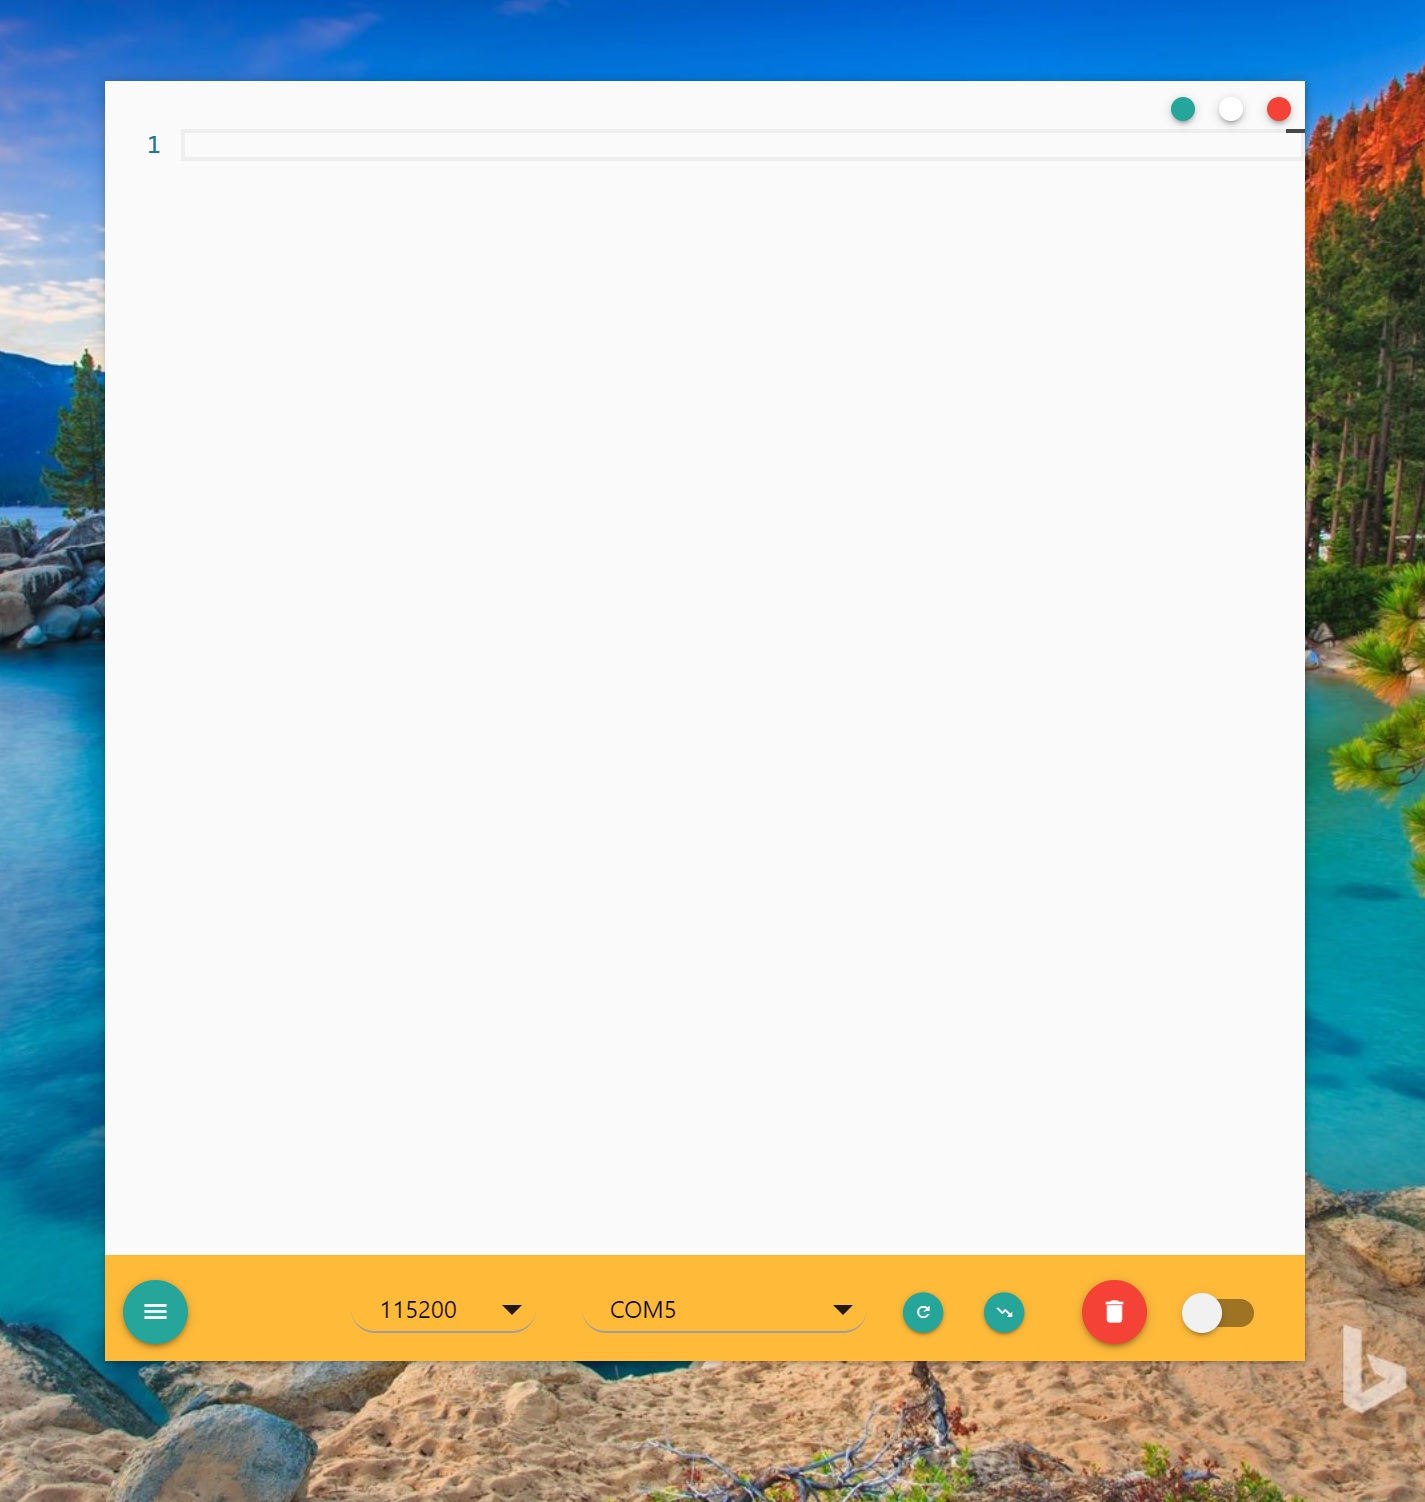
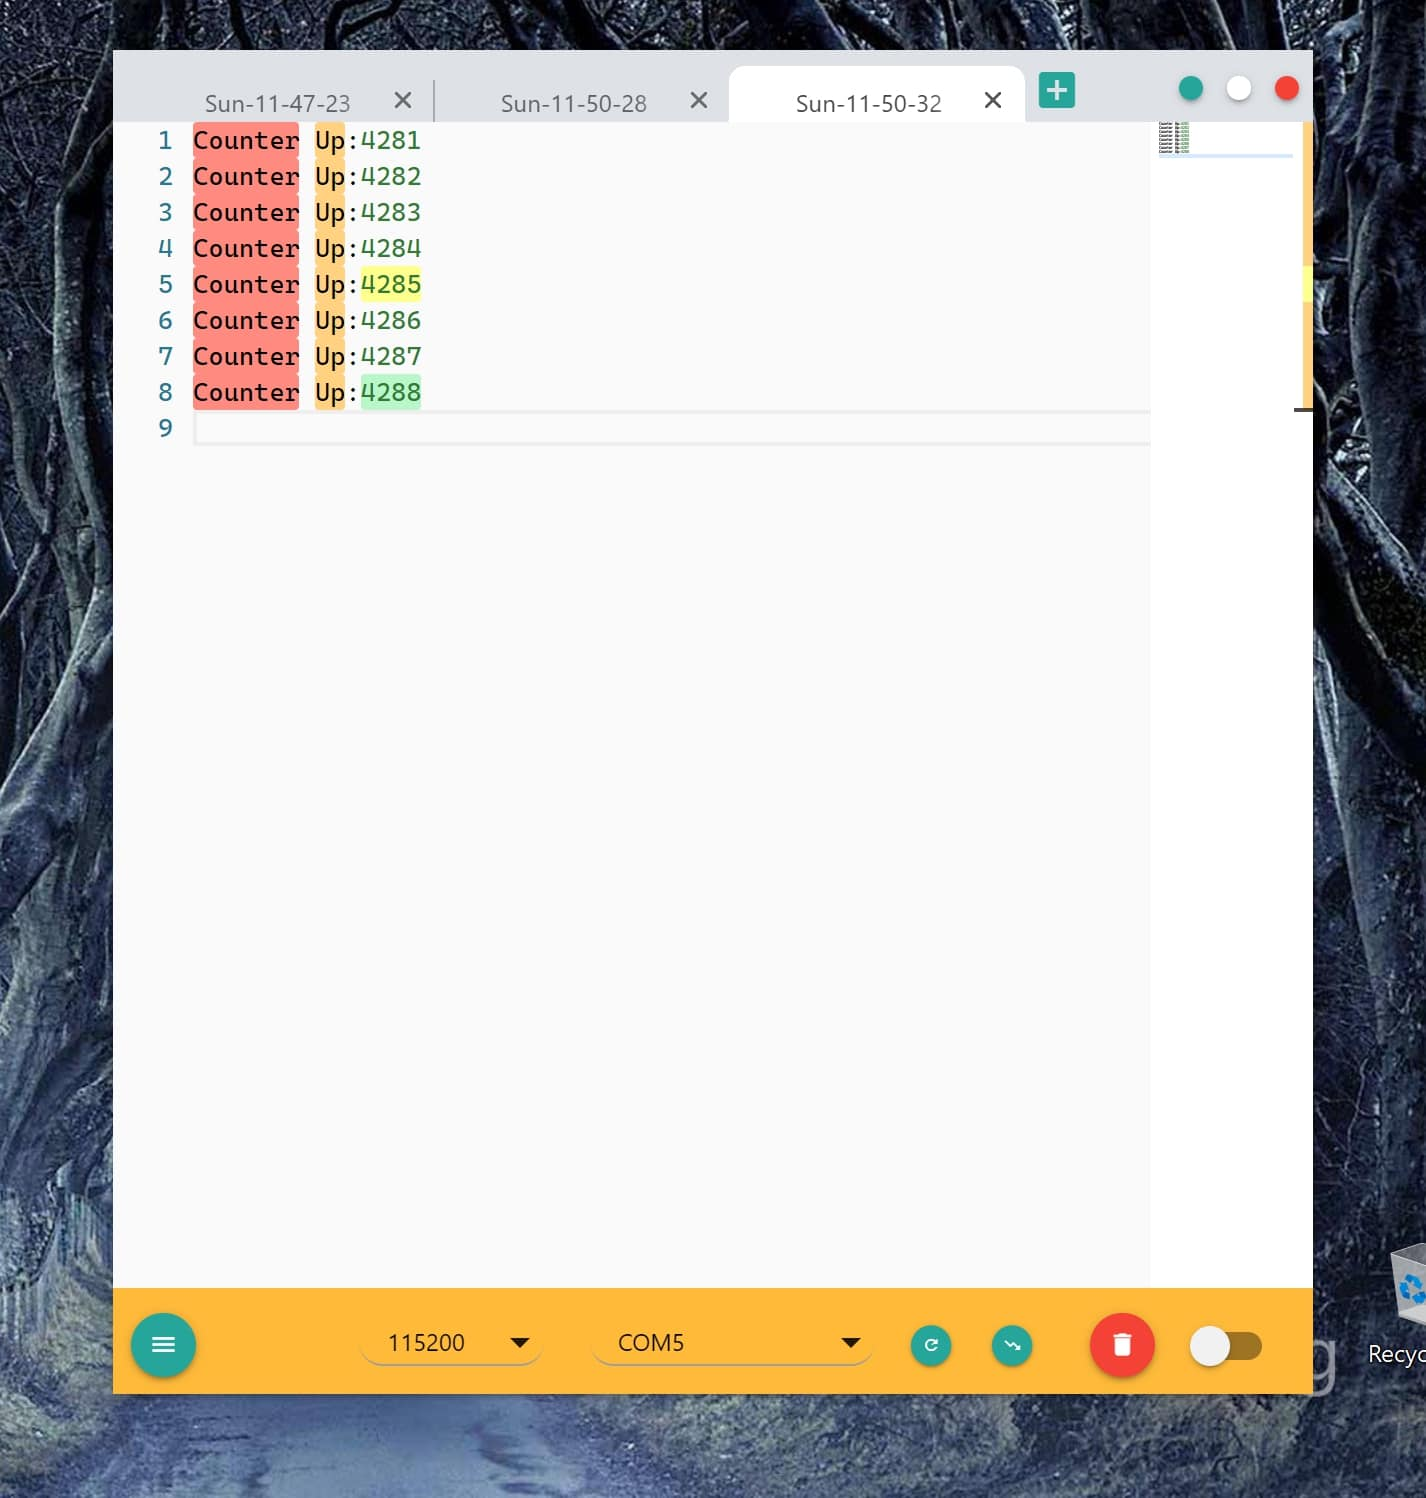
!1 Add tabs * - Add better Chinese font support * - Fix file parse fail on Windows * - Implement new tab shortcut * - Fix multi window issue * - Optimize UI * - Add chrometabs reference * - Optimize zero-tab behavior * - Format tab title * - Remove tab.js file * - * Implement basic tabs function * -

diff --git a/src/editor.js b/src/editor.js
@@ -5,6 +5,7 @@ const path = require("path");
 const amdLoader = require("../node_modules/monaco-editor/min/vs/loader.js");
 const { dialog } = require("electron").remote;
 const hexy = require("hexy");
+const ChromeTabs = require("chrome-tabs");
 
 const amdRequire = amdLoader.require;
 
@@ -35,6 +36,7 @@ const decoTable = [
 ];
 
 var editor;
+var chromeTabs = new ChromeTabs();
 var breakpointHit = false;
 var breakpointAfterLines = 0;
 var breakpointBuff = [];
@@ -42,6 +44,10 @@ var half_line = false;
 var decoIndex = 0;
 var ansiWait = false;
 var captureFileStream;
+
+// tabEl -> view
+// view -> {model, state}
+var tabsMap = new Map();
 
 function uriFromPath(_path) {
   var pathName = path.resolve(_path).replace(/\\/g, "/");
@@ -164,7 +170,6 @@ function highlightToggle() {
   } else {
     decoRemove(model, targetClassName);
   }
-
   return null;
 }
 
@@ -194,8 +199,16 @@ function openFile() {
     .then((result) => {
       if (result.canceled === false) {
         const file = result.filePaths[0];
+        // show text
         const text = fs.readFileSync(file).toString();
         editor.getModel().setValue(text);
+
+        // setup tab title
+        const title = file.split(/[\\|/]/).pop();
+        const el = chromeTabs.activeTabEl;
+        let titleEl = el.querySelector(".chrome-tab-title");
+        el.align = "center";
+        titleEl.innerHTML = title;
       }
     });
 }
@@ -224,11 +237,7 @@ function openBinFile() {
 }
 
 function saveToFile() {
-  let fileName = new Date(+new Date() + 8 * 3600 * 1000);
-  fileName = "Log-" + fileName.toISOString();
-  fileName = fileName.replace(/[.|:]/g, "-");
-  if (config.advance.sign.switch === true && config.advance.sign.name !== "")
-    fileName += "-" + config.advance.sign.name;
+  let fileName = chromeTabs.activeTabEl.innerText;
 
   dialog
     .showSaveDialog({
@@ -243,6 +252,10 @@ function saveToFile() {
         fs.writeFileSync(file, text);
       }
     });
+}
+
+function newTab() {
+  chromeTabs.addTab();
 }
 
 function getTimestamp() {
@@ -497,6 +510,7 @@ amdRequire(["vs/editor/editor.main"], function () {
   });
 
   editor = monaco.editor.create(document.getElementById("editor-area"), {
+    model: null,
     theme: "comNGTheme",
     language: "comNGLang",
     automaticLayout: true,
@@ -725,6 +739,66 @@ amdRequire(["vs/editor/editor.main"], function () {
       }
     }
   });
+
+  // Chrometabs section, refer to:
+  // https://stackoverflow.com/questions/38266951/how-to-create-chrome-like-tab-on-electron
+  let tabsEl = document.querySelector(".chrome-tabs");
+
+  tabsEl.addEventListener("tabAdd", ({ detail }) => {
+    // console.log("tab add");
+
+    // create a new model
+    let model = monaco.editor.createModel();
+    editor.setModel(model);
+    monaco.editor.setTheme("comNGTheme");
+    monaco.editor.setModelLanguage(model, "comNGLang");
+
+    let el = detail.tabEl;
+    // setup the title with time
+    let date = new Date();
+    date = date.toString().split(" ");
+    let title = date[0] + "-" + date[4].replace(/[.|:]/g, "-");
+    let titleEl = el.querySelector(".chrome-tab-title");
+    el.align = "center";
+    titleEl.innerHTML = title;
+
+    // setup the map between table and model/state
+    let view = {
+      model: model,
+      state: null,
+    };
+    tabsMap.set(el, view);
+  });
+
+  tabsEl.addEventListener("activeTabChange", ({ detail }) => {
+    // console.log("tab change");
+    let el = detail.tabEl;
+
+    // Save before tab's state
+    let model = editor.getModel();
+    tabsMap.forEach((view, _) => {
+      if (model === view.model) {
+        view.state = editor.saveViewState();
+      }
+    });
+
+    // Restore new tab's state
+    let view = tabsMap.get(el);
+    editor.setModel(view.model);
+    editor.restoreViewState(view.state);
+  });
+
+  tabsEl.addEventListener("tabRemove", ({ detail }) => {
+    // console.log("tab remove");
+    tabsMap.delete(detail.tabEl);
+    if (0 === tabsMap.size) chromeTabs.addTab();
+  });
+
+  chromeTabs.init(tabsEl);
+  chromeTabs.addTab();
+  document.getElementById("add-tab").onclick = () => {
+    chromeTabs.addTab();
+  };
 });
 
 document.getElementById("clear-btn").onclick = () => {

diff --git a/src/main.js b/src/main.js
@@ -21,9 +21,10 @@ if (require("electron-squirrel-startup")) {
 
 // Keep a global reference of the window object, if you don't, the window will
 // be closed automatically when the JavaScript object is garbage collected.
-let mainWindow;
-
+let windowPool = [];
 const createWindow = () => {
+  let mainWindow;
+
   let width = store.get("window.width", widthDefault);
   let height = store.get("window.height", heightDefault);
 
@@ -60,21 +61,6 @@ const createWindow = () => {
     mainWindow = null;
   });
 
-  // Prevent window size change after min-restore but introduce  extra latch
-  // mainWindow.on("restore", () => {
-  //   mainWindow.setContentSize(
-  //     store.get("window.width", widthDefault),
-  //     store.get("window.height", heightDefault)
-  //   );
-  // });
-
-  // Can fix right 1px border disappear issue which is caused by screen scale.
-  // With price of much extra latch when resizing or moving window
-  // mainWindow.on("resize", () => {
-  //   let rect = mainWindow.getBounds();
-  //   mainWindow.setBounds(rect);
-  // });
-
   Shortcut.register(mainWindow, "CmdOrCtrl+X", () => {
     console.log("Pressed cmd/ctrl x");
     mainWindow.webContents.send("main-cmd", "ClearLog");
@@ -104,6 +90,13 @@ const createWindow = () => {
     console.log("Pressed cmd/ctrl s");
     mainWindow.webContents.send("main-cmd", "SaveFile");
   });
+
+  Shortcut.register(mainWindow, "CmdOrCtrl+T", () => {
+    console.log("Pressed cmd/ctrl t");
+    mainWindow.webContents.send("main-cmd", "NewTab");
+  });
+
+  return mainWindow;
 };
 
 const getTheLock = app.requestSingleInstanceLock();
@@ -114,14 +107,16 @@ if (!getTheLock) {
     console.log("event: " + event);
     console.log("commandLine: " + commandLine);
     console.log("workingDirectory: " + workingDirectory);
-    createWindow();
+    let window = createWindow();
+    windowPool.push(window);
   });
 
   // This method will be called when Electron has finished
   // initialization and is ready to create browser windows.
   // Some APIs can only be used after this event occurs.
   app.on("ready", () => {
-    createWindow();
+    let window = createWindow();
+    windowPool.push(window);
   });
 
   // Quit when all windows are closed.
@@ -129,6 +124,7 @@ if (!getTheLock) {
     // On OS X it is common for applications and their menu bar
     // to stay active until the user quits explicitly with Cmd + Q
     if (process.platform !== "darwin") {
+      windowPool.length = 0;
       app.quit();
     }
   });
@@ -136,8 +132,9 @@ if (!getTheLock) {
   app.on("activate", () => {
     // On OS X it's common to re-create a window in the app when the
     // dock icon is clicked and there are no other windows open.
-    if (mainWindow === null) {
-      createWindow();
+    if (0 === windowPool.length) {
+      let window = createWindow();
+      windowPool.push(window);
     }
   });
 }

diff --git a/src/index.css b/src/index.css
@@ -1,8 +1,11 @@
 @import url("../node_modules/material-design-icons/iconfont/material-icons.css");
 @import url("../node_modules/materialize-css/dist/css/materialize.css");
+@import url("../node_modules/chrome-tabs/css/chrome-tabs.css");
 
 :root {
-  --nav-height: 24px;
+  --nav-height: 36px;
+  --drag-width: 120px;
+  --icon-width: 24px;
   --menu-height: 200px;
   --bar-height: 53px;
   --trans-btn-height: 20px;
@@ -41,19 +44,34 @@ body {
 
 nav {
   /* -webkit-app-region: drag; */
-  background-color: #fafafa;
+  /* background-color: #fafafa; */
   height: var(--nav-height);
   line-height: 24px;
+  background-color: #dee1e6;
 }
 
+.chrome-tabs {
+  position: absolute;
+  top: 0px;
+  left: 0px;
+  width: calc(100% - var(--drag-width) - (var(--icon-width) / 2));
+  height: var(--nav-height);
+}
+
+#add-tab {
+  position: absolute;
+  -webkit-user-select: none;
+  top: 8px;
+  right: calc(var(--drag-width) - 4px);
+  color: #26a69a;
+}
 /* refer: https://github.com/electron/electron/issues/3022#issuecomment-543146976 */
 .nav-drag-region {
   top: 6px;
-  left: 6px;
-  display: block;
+  right: 0px;
   position: absolute;
-  width: calc(100% - 12px);
-  height: 24px;
+  width: var(--drag-width);
+  height: var(--nav-height);
   z-index: -1;
   -webkit-app-region: drag;
 }
@@ -79,9 +97,11 @@ blockquote {
 
 .tiny-btn {
   -webkit-app-region: no-drag;
-  margin: 5px !important;
+  position: absolute;
+  top: 8px;
   width: 12px;
   height: 12px;
+  margin: 5px !important;
 }
 
 .no-head {

diff --git a/src/index.html b/src/index.html
@@ -17,23 +17,30 @@
 
         <ul class="right">
           <li class="head-li">
-            <a id="min-btn" class="waves-effect btn-floating tiny-btn"></a>
+            <a id="min-btn" class="btn-floating tiny-btn"></a>
           </li>
           <li class="head-li">
             <a
               id="max-btn"
-              class="waves-effect btn-floating tiny-btn white"
+              class="btn-floating tiny-btn white"
             ></a>
           </li>
           <li class="head-li">
             <a
               id="close-btn"
-              class="waves-effect btn-floating tiny-btn red"
+              class="btn-floating tiny-btn red"
             ></a>
           </li>
         </ul>
       </div>
     </nav>
+
+    <div class="chrome-tabs">
+      <div class="chrome-tabs-content"></div>
+      <!-- <div class="chrome-tabs-bottom-bar"></div> -->
+    </div>
+
+    <div id="add-tab"><i class="material-icons">add_box</i></div>
 
     <div id="editor-area"></div>
 

diff --git a/src/base.js b/src/base.js
@@ -56,7 +56,7 @@ const store = new Store({
       store.set("general.modemSignal", false);
       store.set(
         "general.fontFamily",
-        "'Cascadia Mono', Consolas, 'SF Mono', 'Ubuntu Mono', Menlo, 'Lucida Console', 'Courier New', monospace"
+        "'Cascadia Mono', Consolas, 'SF Mono', 'Ubuntu Mono', Menlo, 'Lucida Console', 'Courier New', monospace, 'Source Han Sans SC', 'Hiragino Sans GB', 'Microsoft YaHei', 'WenQuanYi Micro Hei'"
       );
       store.set("general.fontSize", 12);
     },
@@ -118,6 +118,9 @@ ipcRenderer.on("main-cmd", (event, arg) => {
       break;
     case "SaveFile":
       saveToFile();
+      break;
+    case "NewTab":
+      newTab();
       break;
     default:
       console.log("Unknown commands");
